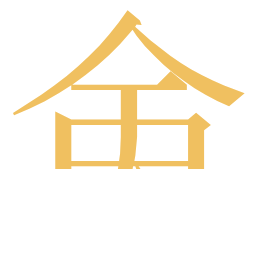
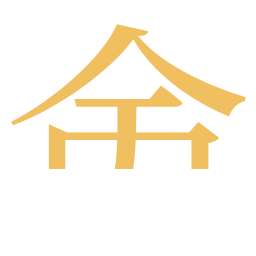
Register 15 more primitives; fix the font priority in the image generator
Picked up after three commits from a separate session (right-side 阝, the
"beta" alias, text-search brackets + script-aware suggest). Verified that
base, and applied 2 collapses the 阝 registration had left unlocked
(爺/椰 -> 耶). Review queue empty.

Registered, same method (strict CSV name resolution, name not already
owned by a registered row, render against real hosts before believing it):
卆 ninety, 亢 whirlwind, 夭 sapling, 戠 kazoo, 㔾 fingerprint, 𦰩 scarecrow,
爰 migrating ducks, 俞 meeting of butchers, 录 dustpan, 甬 pogo stick,
夬 guillotine, 卬 stamp album, 冓 funnel, 侖 post-it note, 㐬 lifebelt.

25 collapses followed; the 卬 family (抑/仰/迎/昂) also gained a missing
component, having carried only 卩 and never the left half. A further 21
came from the CSV pass for the atomic ones, each requiring the CSV to
name the primitive for that host independently.

rtk212's pin recorded that "ninety" was "a dead, alias-less term ... not a
real primitive name". That is now disproven: it resolves strictly to 卆
across all 4 of its CSV hosts, and 卆 renders as exactly the right side of
砕/粋/酔/枠. It was only dead because nothing held it — the same shape as
"animal legs" before it landed on 八 yesterday. Third time a term filed as
dead turned out to be Heisig's real name waiting for a row.

**Font fix.** Re-running make_primitive_images.py modified a PNG the other
session had committed, which is worth stopping for. Rendering both against
[…]

Changed region(s): [[0.0312, 0.0312, 0.9688, 0.6875]]

diff --git a/backend/test_regression_fixes.py b/backend/test_regression_fixes.py
@@ -248,7 +248,7 @@ EXPECTED_DECOMPOSITIONS = {
     "rtk2691": {"character": "糟", "keyword": "lees",
                 "expected_part_ids": {"rtk987", "rtk1257"}},
     "rtk2014": {"character": "航", "keyword": "navigate",
-                "expected_part_ids": {"rtk2012", "kangxi8", "kangxi16"}},
+                "expected_part_ids": {"prim-whirlwind", "rtk2012"}},
     "rtk580": {"character": "家", "keyword": "house",
                "expected_part_ids": {"kangxi40", "kangxi152"}},
     # "sun" used to resolve to hanzi-5b6b (孫, grandchild) via an unrelated pinyin
@@ -574,7 +574,7 @@ EXPECTED_DECOMPOSITIONS = {
     "rtk1356": {"character": "狭", "keyword": "cramped",
                 "expected_part_ids": {"kangxi94", "rtk1023", "rtk112", "rtk2", "kangxi12", "kangxi3", "kangxi8"}},
     "rtk1517": {"character": "犯", "keyword": "crime",
-                "expected_part_ids": {"kangxi94", "rtk75", "kangxi26"}},
+                "expected_part_ids": {"kangxi94", "prim-fingerprint"}},
     # Further-collapsed 2026-08-29 (sweep batch 3 follow-up), same as 狩
     # above: 猶's 酉,丷 flattened 酋 (chieftain, rtk2915) in place.
     "rtk1546": {"character": "猶", "keyword": "furthermore",
@@ -2107,9 +2107,9 @@ EXPECTED_DECOMPOSITIONS = {
     "rtk2086": {"character": "厳", "keyword": "stern",
                 "expected_part_ids": {"kangxi27", "prim-owl", "rtk889"}},
     "rtk2099": {"character": "暖", "keyword": "warmth",
-                "expected_part_ids": {"rtk12", "rtk760", "rtk784"}},
+                "expected_part_ids": {"prim-migrating-ducks", "rtk12"}},
     "rtk2101": {"character": "援", "keyword": "abet",
-                "expected_part_ids": {"kangxi64", "rtk760", "rtk784"}},
+                "expected_part_ids": {"kangxi64", "prim-migrating-ducks"}},
     "rtk2110": {"character": "塑", "keyword": "model",
                 "expected_part_ids": {"rtk161", "rtk2862"}},
     "rtk2111": {"character": "遡", "keyword": "go upstream",
@@ -2332,7 +2332,7 @@ EXPECTED_DECOMPOSITIONS = {
     "rtk904": {"character": "規", "keyword": "standard",
                "expected_part_ids": {"rtk901", "rtk61"}},
     "rtk1701": {"character": "漢", "keyword": "sino-",
-                "expected_part_ids": {"rtk137", "prim-mugwort", "rtk11", "rtk901"}},
+                "expected_part_ids": {"prim-scarecrow", "rtk137"}},
     "rtk1877": {"character": "央", "keyword": "center",
                 "expected_part_ids": {"kangxi14", "rtk112"}},
     "rtk2659": {"character": "窺", "keyword": "lie in wait",
@@ -2430,7 +2430,7 @@ EXPECTED_DECOMPOSITIONS = {
     #    approximation from the 麒 fix, also dropped a stray "一"), 柘,
     #    碧, 硯, 碓.
     "rtk121": {"character": "砕", "keyword": "smash",
-               "expected_part_ids": {"rtk118", "rtk9", "rtk10"}},
+               "expected_part_ids": {"prim-ninety", "rtk118"}},
     "rtk609": {"character": "確", "keyword": "assurance",
                "expected_part_ids": {"rtk118", "kangxi14", "kangxi172"}},
     "rtk610": {"character": "午", "keyword": "noon",
@@ -2446,7 +2446,7 @@ EXPECTED_DECOMPOSITIONS = {
     "rtk750": {"character": "硬", "keyword": "stiff",
                "expected_part_ids": {"rtk118", "rtk749"}},
     "rtk825": {"character": "硫", "keyword": "sulphur",
-               "expected_part_ids": {"rtk118", "rtk134", "kangxi8", "kangxi28"}},
+               "expected_part_ids": {"prim-lifebelt", "rtk118"}},
     "rtk832": {"character": "岩", "keyword": "boulder",
                "expected_part_ids": {"rtk830", "rtk118"}},
     "rtk869": {"character": "破", "keyword": "rend",
@@ -2540,7 +2540,7 @@ EXPECTED_DECOMPOSITIONS = {
     "rtk1382": {"character": "踪", "keyword": "trail",
                "expected_part_ids": {"rtk1181", "rtk1372"}},
     "rtk1432": {"character": "織", "keyword": "weave",
-               "expected_part_ids": {"kangxi62", "rtk1431", "rtk518"}},
+               "expected_part_ids": {"prim-kazoo", "rtk1431"}},
     "rtk1437": {"character": "緻", "keyword": "fine",
                "expected_part_ids": {"rtk1431", "rtk818"}},
     "rtk1440": {"character": "締", "keyword": "tighten",
@@ -2590,7 +2590,7 @@ EXPECTED_DECOMPOSITIONS = {
     "rtk1470": {"character": "継", "keyword": "inherit",
                "expected_part_ids": {"prim-pipe", "rtk1431", "rtk987"}},
     "rtk1471": {"character": "緑", "keyword": "green",
-               "expected_part_ids": {"kangxi171", "prim-katakana-yo", "rtk137", "rtk1431"}},
+               "expected_part_ids": {"prim-dustpan", "rtk1431"}},
     "rtk1472": {"character": "縁", "keyword": "affinity",
                "expected_part_ids": {"kangxi152", "prim-katakana-yo", "rtk1431"}},
     "rtk1473": {"character": "網", "keyword": "netting",
@@ -2606,7 +2606,7 @@ EXPECTED_DECOMPOSITIONS = {
     "rtk1493": {"character": "係", "keyword": "person in charge",
                "expected_part_ids": {"kangxi9", "rtk1492"}},  # 亻 + 系 (person radical added 2026-09-05)
     "rtk1512": {"character": "踊", "keyword": "jump",
-               "expected_part_ids": {"kangxi26", "rtk1265", "rtk1372"}},
+               "expected_part_ids": {"prim-pogo-stick", "rtk1372"}},
     "rtk1609": {"character": "純", "keyword": "genuine",
                "expected_part_ids": {"rtk1431", "rtk2189"}},
     "rtk1610": {"character": "頓", "keyword": "immediate",
@@ -2646,7 +2646,7 @@ EXPECTED_DECOMPOSITIONS = {
     "rtk2025": {"character": "繭", "keyword": "cocoon",
                "expected_part_ids": {"kangxi13", "prim-mugwort", "rtk1431", "rtk563"}},
     "rtk2102": {"character": "緩", "keyword": "slacken",
-               "expected_part_ids": {"prim-katakana-no", "rtk1", "rtk1431", "rtk752", "rtk784"}},
+               "expected_part_ids": {"prim-migrating-ducks", "rtk1431"}},
     "rtk2114": {"character": "綱", "keyword": "hawser",
                "expected_part_ids": {"rtk1431", "rtk2112"}},
     "rtk2211": {"character": "鱗", "keyword": "scaled",
@@ -2916,7 +2916,7 @@ EXPECTED_DECOMPOSITIONS = {
     "rtk519": {"character": "暗", "keyword": "darkness",
                "expected_part_ids": {"rtk12", "rtk518"}},
     "rtk521": {"character": "識", "keyword": "discriminating",
-               "expected_part_ids": {"kangxi62", "rtk357", "rtk518"}},
+               "expected_part_ids": {"prim-kazoo", "rtk357"}},
     "rtk522": {"character": "鏡", "keyword": "mirror",
                "expected_part_ids": {"prim-finally", "rtk287"}},
     "rtk654": {"character": "意", "keyword": "idea",
@@ -2938,7 +2938,7 @@ EXPECTED_DECOMPOSITIONS = {
     "rtk864": {"character": "掌", "keyword": "manipulate",
                "expected_part_ids": {"rtk196", "rtk687"}},
     "rtk887": {"character": "職", "keyword": "post",
-               "expected_part_ids": {"kangxi62", "rtk518", "rtk881"}},
+               "expected_part_ids": {"prim-kazoo", "rtk881"}},
     "rtk1058": {"character": "億", "keyword": "hundred million",
                "expected_part_ids": {"kangxi9", "rtk654"}},
     "rtk1060": {"character": "償", "keyword": "reparation",
@@ -2986,7 +2986,7 @@ EXPECTED_DECOMPOSITIONS = {
     "rtk2277": {"character": "哨", "keyword": "scout",
                "expected_part_ids": {"rtk11", "rtk119"}},
     "rtk2340": {"character": "幟", "keyword": "pennant",
-               "expected_part_ids": {"kangxi62", "rtk432", "rtk518"}},
+               "expected_part_ids": {"prim-kazoo", "rtk432"}},
     "rtk2448": {"character": "蓉", "keyword": "lotus blossom",
                "expected_part_ids": {"prim-mugwort", "rtk853"}},
     "rtk2450": {"character": "芦", "keyword": "hollow reed",
@@ -3402,11 +3402,11 @@ EXPECTED_DECOMPOSITIONS = {
     "rtk2629": {"character": "眩", "keyword": "faint",
                "expected_part_ids": {"rtk1484", "rtk15"}},
     "rtk1961": {"character": "論", "keyword": "argument",
-               "expected_part_ids": {"prim-umbrella", "rtk1967", "rtk357"}},
+               "expected_part_ids": {"prim-post-it-note", "rtk357"}},
     "rtk1962": {"character": "倫", "keyword": "ethics",
-               "expected_part_ids": {"kangxi9", "prim-umbrella", "rtk1967"}},
+               "expected_part_ids": {"kangxi9", "prim-post-it-note"}},
     "rtk1963": {"character": "輪", "keyword": "wheel",
-               "expected_part_ids": {"prim-umbrella", "rtk1967", "rtk304"}},
+               "expected_part_ids": {"prim-post-it-note", "rtk304"}},
     "rtk1968": {"character": "柵", "keyword": "stockade",  # was ｜,一,木,亅,冂,冊,廾 -- IDS ⿰木冊 has no 侖
                "expected_part_ids": {"rtk1967", "rtk207"}},  # (亼); dropped the spurious 亼-shape parts too
     "rtk2614": {"character": "珊", "keyword": "coral",  # was ｜,一,王,亅,冂,冊,廾 -- IDS ⿰王冊 has no 侖 either
@@ -3430,15 +3430,19 @@ EXPECTED_DECOMPOSITIONS = {
                                                                 # taught; 氏 is the established stand-in per
                                                                 # 低/抵/底's own convention).
     "rtk212": {"character": "枠", "keyword": "frame",  # had NO data.txt override at all -- fell through to
-               "expected_part_ids": {"rtk9", "rtk10", "rtk207"}},  # heisig-kanjis.csv's raw components text
-                                                                     # verbatim, which includes "ninety" (a dead,
-                                                                     # alias-less term -- CSV's own gloss for 卆's
-                                                                     # 九+十 combination, not a real primitive
-                                                                     # name) plus a legacy orphaned rad4.16 row.
-                                                                     # Added an override: render-confirmed 枠 =
-                                                                     # 木 + 卆(=九,十). Closed the last multi-char
-                                                                     # gap in the same check -- 0 undefined terms
-                                                                     # dataset-wide as of 2026-09-05.
+               "expected_part_ids": {"prim-ninety", "rtk207"}},  # heisig-kanjis.csv's raw components text
+                                                                     # verbatim, which includes "ninety" -- judged
+                                                                     # then to be a dead, alias-less term, "CSV's
+                                                                     # own gloss for 卆's 九+十 combination, not a
+                                                                     # real primitive name", plus a legacy orphaned
+                                                                     # rad4.16 row. The "ninety" half of that was
+                                                                     # wrong: 2026-09-11 it resolves strictly to 卆
+                                                                     # across all 4 of its CSV hosts, and 卆 renders
+                                                                     # as exactly the right side of 砕/粋/酔/枠. It
+                                                                     # was only "dead" because no row held it, the
+                                                                     # same shape as "animal legs" before it landed
+                                                                     # on 八. It now lives on prim-ninety, and this
+                                                                     # pin references that instead of 九,十.
 
     # 2026-09-10 — decomposition-review-queue disputes (vitaly.kroivets), each
     # render-verified against heisig-kanjis.csv's components column:

diff --git a/backend/make_primitive_images.py b/backend/make_primitive_images.py
@@ -27,14 +27,18 @@ plausibly sees tofu:
 ## What it produces
 
 `primitive_images/{kanji_id}.png`, committed to the repo (unlike `uploads/`,
-which is gitignored user content). Rendered with HanaMin — a Mincho face, which
-is what `App.css` already asks for on every glyph surface (`"Noto Serif CJK JP",
-"Yu Mincho", serif`), so an image chip sits beside a real glyph chip without
-looking like a different typeface — in `--kanji-color` (#f0c060) on transparent,
-at 4x the largest display size (`.detail-char-img`, 4rem) so it stays crisp.
+which is gitignored user content). Rendered in Mincho, which is what `App.css`
+asks for on every glyph surface (`"Noto Serif CJK JP", "Yu Mincho", serif`), so
+an image chip sits beside a real glyph chip without looking like a different
+typeface — in `--kanji-color` (#f0c060) on transparent, at 4x the largest display
+size (`.detail-char-img`, 4rem) so it stays crisp.
 
-Install the font first if it is missing: `apt-get install fonts-hanazono`.
-Requires the same headless Chromium `render_glyphs.py` uses; no new dependency.
+Needs BOTH font packages: `apt-get install fonts-noto-cjk fonts-hanazono`. Noto
+Serif CJK JP supplies the Japanese shapes and is the default; HanaMin covers what
+it lacks and is the documented per-glyph exception (see FONT_OVERRIDES). Missing
+Noto is not an error you will see — the stack just falls through to HanaMin and
+quietly produces Chinese-variant shapes. Requires the same headless Chromium
+`render_glyphs.py` uses; no new Python dependency.
 
 ## Usage
 
@@ -76,9 +80,32 @@ UNRENDERABLE_RANGES = (
 # Radicals Supplement block is itself patchy on Android (same reason Ext A is above).
 FORCE_IMAGE = frozenset({0x2ECF})
 
-# Mincho, to match App.css's glyph surfaces. HanaMinA covers the BMP extensions,
-# HanaMinB the supplementary planes; listing both lets fontconfig pick per glyph.
-FONT_STACK = "'HanaMinA', 'HanaMinB', 'Noto Serif CJK JP', serif"
+# Mincho, to match App.css's glyph surfaces.
+#
+# Order matters, and this had it backwards until 2026-09-11. HanaMin is here because
+# it is the only free face covering CJK Ext A–G, but it is a Chinese-leaning design,
+# and for a glyph that a Japanese face *also* has it can draw a different shape: ⻏
+# (U+2ECF) comes out with a hooked tail under HanaMin, where 郡/邦/都 plainly have a
+# straight descender. Putting HanaMin first silently applied that variant to every
+# glyph it happened to cover. So the Japanese Mincho faces come first and HanaMin
+# fills only the gaps they genuinely cannot — the same ordering render_glyphs.py
+# adopted on 2026-09-10, for the same reason.
+#
+# Generating these needs a Japanese Mincho face installed (`apt-get install
+# fonts-noto-cjk`), not just fonts-hanazono; without one, "serif" falls through to
+# HanaMin and reintroduces exactly the bug above.
+FONT_STACK = ("'Noto Serif CJK JP', 'Source Han Serif JP', 'IPAMincho', "
+              "'HanaMinA', 'HanaMinB', serif")
+
+# ...and no single stack is right for every glyph, which is why this script tells you
+# to look at what it produced. Checked all 19 of these one by one against their hosts
+# on 2026-09-11: Noto wins or ties everywhere except 𧘇, which it draws small and
+# raised like a superscript, where the shape actually fills the bottom of 衣/表 —
+# HanaMin draws it at full size. Add an entry only after rendering the candidate
+# beside a real host and seeing the default get it wrong.
+FONT_OVERRIDES = {
+    0x27607: "'HanaMinA', 'HanaMinB', serif",   # 𧘇 scarf
+}
 GLYPH_COLOR = "#f0c060"   # --kanji-color
 CANVAS = 256              # 4x .detail-char-img's 4rem, so it stays crisp scaled down
 
@@ -111,13 +138,14 @@ def system_primitives(conn):
 
 def _page(character: str) -> str:
     """One glyph, centred on a transparent canvas, no chrome of any kind."""
+    stack = FONT_OVERRIDES.get(ord(character), FONT_STACK)
     return f"""<!DOCTYPE html>
 <html><head><meta charset="utf-8">
 <style>
   html, body {{ margin: 0; padding: 0; background: transparent; overflow: hidden; }}
   .glyph {{
     width: {CANVAS}px; height: {CANVAS}px;
-    font-family: {FONT_STACK};
+    font-family: {stack};
     font-size: {CANVAS}px;
     line-height: {CANVAS}px;
     text-align: center;

diff --git a/docs/2026-08-search-quality-audit.md b/docs/2026-08-search-quality-audit.md
@@ -8014,3 +8014,108 @@ maps to no filter (`suggestScope` in `KanjiDetail.jsx`, since `/search/suggest`
 only accepts the three study-language values).
 
 4 new pytest cases; frontend rebuilt + redeployed (`index-CITChwsA.js`).
+
+## 2026-09-11 (daily check-in) — 15 more primitives, and a retracted "dead term" verdict
+
+Picked up after three commits from a separate session (right-side 阝 / ozato,
+the "beta" alias on both 阝, and the text-search bracket + script-aware-suggest
+fixes). Verified that base first: clean rebuild, 1304 pins with only the 4 known
+hanzi-scope non-issues, 66 pytest, 0 dead tokens — plus **2 collapses** the 阝
+registration had left unlocked (爺/椰 → 耶), applied. Review queue empty.
+
+### The batch
+
+Same method, fourth time: strict name resolution against
+`heisig-kanjis.csv`, reject any name already owned by a registered row, then
+render the glyph beside real hosts before believing it.
+
+`卆` ninety, `亢` whirlwind, `夭` sapling, `戠` kazoo, `㔾` fingerprint,
+`𦰩` scarecrow, `爰` migrating ducks, `俞` meeting of butchers, `录` dustpan,
+`甬` pogo stick, `夬` guillotine, `卬` stamp album, `冓` funnel, `侖` post-it
+note, `㐬` lifebelt.
+
+`䒑`, `电` and `𮥶` came back through the automatic filter again and were
+rejected again, for the same reasons as yesterday — worth noting that the filter
+cannot remember a judgement call, so each batch has to re-make them.
+
+25 collapses followed directly, and the 卬 family (抑/仰/迎/昂) also gained a
+*missing* component: each had only 卩, never the left half.
+
+### "ninety" was not a dead term after all
+
+`rtk212`'s pin carried a note from 2026-09-05 recording that 枠 had fallen
+through to the CSV's raw component text, which "includes 'ninety' (a dead,
+alias-less term — CSV's own gloss for 卆's 九+十 combination, **not a real
+primitive name**)". That verdict is now disproven: "ninety" resolves strictly to
+卆 across all 4 of its CSV hosts, and 卆 renders as exactly the right side of
+砕/粋/酔/枠. It was only "dead" because nothing held it — the same shape as
+"animal legs" sitting on a phantom row before it landed on 八 yesterday. Both
+pins (rtk121 砕, rtk212 枠) now reference `prim-ninety` instead of spelling it
+九,十, and the note is corrected in place rather than deleted, since the reasoning
+that produced it is worth keeping visible.
+
+This is the third time a term this audit filed as "dead//invented/legacy" turned
+out to be Heisig's real name waiting for a row to live on. The pattern is
+consistent enough to be worth stating: **an alias with no home looks identical to
+an alias with no meaning**, and only the structural check tells them apart.
+
+### The atomic-primitive follow-up
+
+As established yesterday, registering a primitive that is atomic in both trees
+never helps its hosts on its own — the safety gate cannot vouch for the strokes
+they spelled it with. The CSV settles those, and **21** more collapses were
+applied on that basis (輸/諭 → 俞, 硫/流 → 㐬, 録/緑 → 录, 通/踊/痛 → 甬,
+犯/氾/厄 → 㔾, 決/快 → 夬, 講/購/構/溝 → 冓, 論/倫/輪 → 侖), each requiring the
+CSV to independently name the primitive for that host. 11 were skipped: 9 are
+past the CSV's frame coverage (empty components), 2 need a component that is
+itself still unregistered. One skip is worth recording as the check working:
+愉 lists "meeting; umbrella; butchers" — 俞 split into its *parts* rather than
+named — so the strict test correctly declined it.
+
+**Result: exact match against cjkvi top level 62.9% → 64.5%.** `mouth` 205 → 202.
+18 regression pins rewritten across the two passes. Verified: detector 0, dead
+tokens 0, self-references 0, 1304 pins with only the 4 known hanzi-scope
+non-issues, 66 pytest.
+
+**Next**: ~42 strictly-named components remain, same method, no new source
+needed. The head of what is left is the recurring rejects (䒑/电/𮥶) plus `コ`
+(cjkvi's own katakana shorthand for a rake shape, which should never be
+registered as-is) and components needing their own prerequisites (`乀`, `𫩠`,
+`亍`).
+
+### Addendum: the primitive images were being drawn in the wrong font
+
+Re-running `make_primitive_images.py` modified `kangxi163.png` — a file the other
+session had committed the day before. Worth stopping for, since silently
+overwriting another session's work is exactly the kind of thing that goes
+unnoticed. Rendering both side by side against 郡/邦 showed **theirs was right and
+mine was wrong**: the committed ⻏ has the straight descender the hosts have, mine
+had a hooked tail.
+
+The cause is a font-priority bug I introduced on 2026-09-09 and then half-fixed.
+`make_primitive_images.py` listed `'HanaMinA', 'HanaMinB', 'Noto Serif CJK JP'`
+— HanaMin *first*. HanaMin is there because it is the only free face covering CJK
+Ext A–G, but it is Chinese-leaning, so for any glyph a Japanese face also has, it
+silently supplied its own variant shape. `render_glyphs.py` got exactly this fix
+on 2026-09-10 (Japanese faces first, HanaMin as fallback); the image generator
+never did. The other session's container simply didn't have HanaMin installed, so
+it fell through to Noto and got the right answer by accident.
+
+Fixed the order, and installed `fonts-noto-cjk` here — this container had **no
+Japanese Mincho face at all**, which means every primitive image generated in it
+so far came from HanaMin regardless of ordering.
+
+Then checked all 19 glyphs one at a time, Noto vs HanaMin vs their real hosts,
+rather than assuming the reorder was globally right. It nearly is: Noto wins or
+ties everywhere except **𧘇**, which Noto draws small and raised like a
+superscript where the shape actually fills the bottom of 衣/表. That one gets a
+`FONT_OVERRIDES` entry, and the mechanism is documented as "add an entry only
+after rendering the candidate beside a real host and seeing the default get it
+wrong". Its regenerated file came out byte-identical to the committed one, which
+is a decent check that the override does what it claims.
+
+All 19 images are now consistent — one face, one documented exception — where
+before they were a mix of whatever each container happened to have installed.
+That last part is the real lesson: **the output of this script depended on the
+machine it ran on, and nothing said so.** The docstring now names both font
+packages and warns that a missing Noto is not an error anyone will see.

diff --git a/CLAUDE.md b/CLAUDE.md
@@ -265,7 +265,7 @@ frontend/src/
 
 Uploaded images are written to `backend/uploads/{id}.{ext}` (filename always server-derived from the DB-resolved canonical kanji id, never client input) and served back at `/uploads/...` via a `StaticFiles` mount in `main.py`; `kanji.image_url` stores that server-relative path, and `frontend/src/api.js::resolveImageUrl` resolves it against the same `BASE` used for API calls. `backend/uploads/` is gitignored; `backup_db.py` backs it up as a `uploads-<timestamp>.tar.gz` snapshot alongside each `kanji.db` backup (added 2026-08-31, architecture review finding #5 — skipped with a message, not an error, when `uploads/` doesn't exist or is empty). Note `upload_kanji_image` in `contributions.py` is a **sync** `def`, not `async def` — the `db_conn` dependency's sqlite3 connection is thread-affine (`check_same_thread=True`), and an async endpoint body runs on the event loop thread while the dependency was resolved on a threadpool thread, which throws `sqlite3.ProgrammingError`. Every other endpoint in this codebase is sync for the same reason; keep new endpoints sync unless you also rework how `conn` is obtained.
 
-**Unrenderable primitives** (`backend/primitive_images/`, added 2026-09-09, owner-requested): several primitives Heisig teaches only exist at codepoints most fonts can't draw — `𭕄` (owl crown, CJK Ext G), `𢦏` (harvest festival, Ext B), `㑒`/`㐄` (Ext A, patchy on Android specifically, which matters given `android/`). Substituting a well-supported lookalike is the mistake this project has had to undo most often (`ツ` for `𭕄`, `杰` for `灬`, `艾` for `艹`, `爿` for `丬`), so the codepoint stays correct and the *rendering* is fixed instead: `make_primitive_images.py` renders each to a PNG via the same headless Chromium `render_glyphs.py` uses, and `database.py::attach_primitive_images()` (called at the end of `import_data`) points that row's `image_url` at it. Two deliberate details: the PNGs are drawn in Mincho (HanaMin — `apt-get install fonts-hanazono`) in `--kanji-color` on transparent, matching what `App.css` already asks for on every glyph surface; and the canvas is *exactly one em* at the rendered font size, so `max-width: 1.4rem` on a part chip yields the same size and proportions as a real glyph beside it (a bigger canvas makes the image render visibly smaller than its neighbours). `primitive_images/` is committed — unlike `uploads/`, it is repo content, not user data, and it is served by its own `/primitive-images` `StaticFiles` mount and excluded from the upload backup set. `sync_system_data.py` propagates `image_url` to a live DB; that is safe only because no user can attach an image to a system row (`set_kanji_image` carries the same `owner_id != 1` guard as `set_visibility`). On the frontend, `Glyph.jsx` gives a picture precedence over the character — `image_url` is only ever set deliberately, so its presence means the glyph alone was judged not good enough.
+**Unrenderable primitives** (`backend/primitive_images/`, added 2026-09-09, owner-requested): several primitives Heisig teaches only exist at codepoints most fonts can't draw — `𭕄` (owl crown, CJK Ext G), `𢦏` (harvest festival, Ext B), `㑒`/`㐄` (Ext A, patchy on Android specifically, which matters given `android/`). Substituting a well-supported lookalike is the mistake this project has had to undo most often (`ツ` for `𭕄`, `杰` for `灬`, `艾` for `艹`, `爿` for `丬`), so the codepoint stays correct and the *rendering* is fixed instead: `make_primitive_images.py` renders each to a PNG via the same headless Chromium `render_glyphs.py` uses, and `database.py::attach_primitive_images()` (called at the end of `import_data`) points that row's `image_url` at it. Two deliberate details: the PNGs are drawn in Mincho in `--kanji-color` on transparent, matching what `App.css` already asks for on every glyph surface — **`apt-get install fonts-noto-cjk fonts-hanazono`**, in that priority order, since Noto Serif CJK JP supplies the Japanese shapes and HanaMin only fills what it lacks (HanaMin first was a bug until 2026-09-11: it silently drew Chinese-variant shapes for glyphs Noto also covers, e.g. ⻏ with a hooked tail where 郡/邦/都 have a straight descender). `FONT_OVERRIDES` in that script is the documented per-glyph exception list, currently just 𧘇, which Noto draws small and raised; and the canvas is *exactly one em* at the rendered font size, so `max-width: 1.4rem` on a part chip yields the same size and proportions as a real glyph beside it (a bigger canvas makes the image render visibly smaller than its neighbours). `primitive_images/` is committed — unlike `uploads/`, it is repo content, not user data, and it is served by its own `/primitive-images` `StaticFiles` mount and excluded from the upload backup set. `sync_system_data.py` propagates `image_url` to a live DB; that is safe only because no user can attach an image to a system row (`set_kanji_image` carries the same `owner_id != 1` guard as `set_visibility`). On the frontend, `Glyph.jsx` gives a picture precedence over the character — `image_url` is only ever set deliberately, so its presence means the glyph alone was judged not good enough.
 
 **Upload atomicity** (also finding #5): `upload_kanji_image()` validates the actual file content against its declared MIME type (`_detected_image_extension` checks real magic bytes — GIF/PNG/JPEG/WEBP signatures — not just the client-supplied `Content-Type` header) before touching disk or the DB, then writes to a staged temp file in `uploads/`, atomically `os.replace()`s the previous file (if any) aside and the staged file into place, and only *then* commits `kanji.image_url` (`set_kanji_image(..., commit=False)`, committed explicitly after the file swap succeeds). Any failure at any point (bad content, a DB error, anything) rolls the file back to its pre-upload state (`except: conn.rollback(); ...; os.replace(previous, target); raise`) before re-raising — a disk-full or DB error can no longer leave `image_url` pointing at a missing/corrupt file, or a file on disk with no matching DB row.
 
